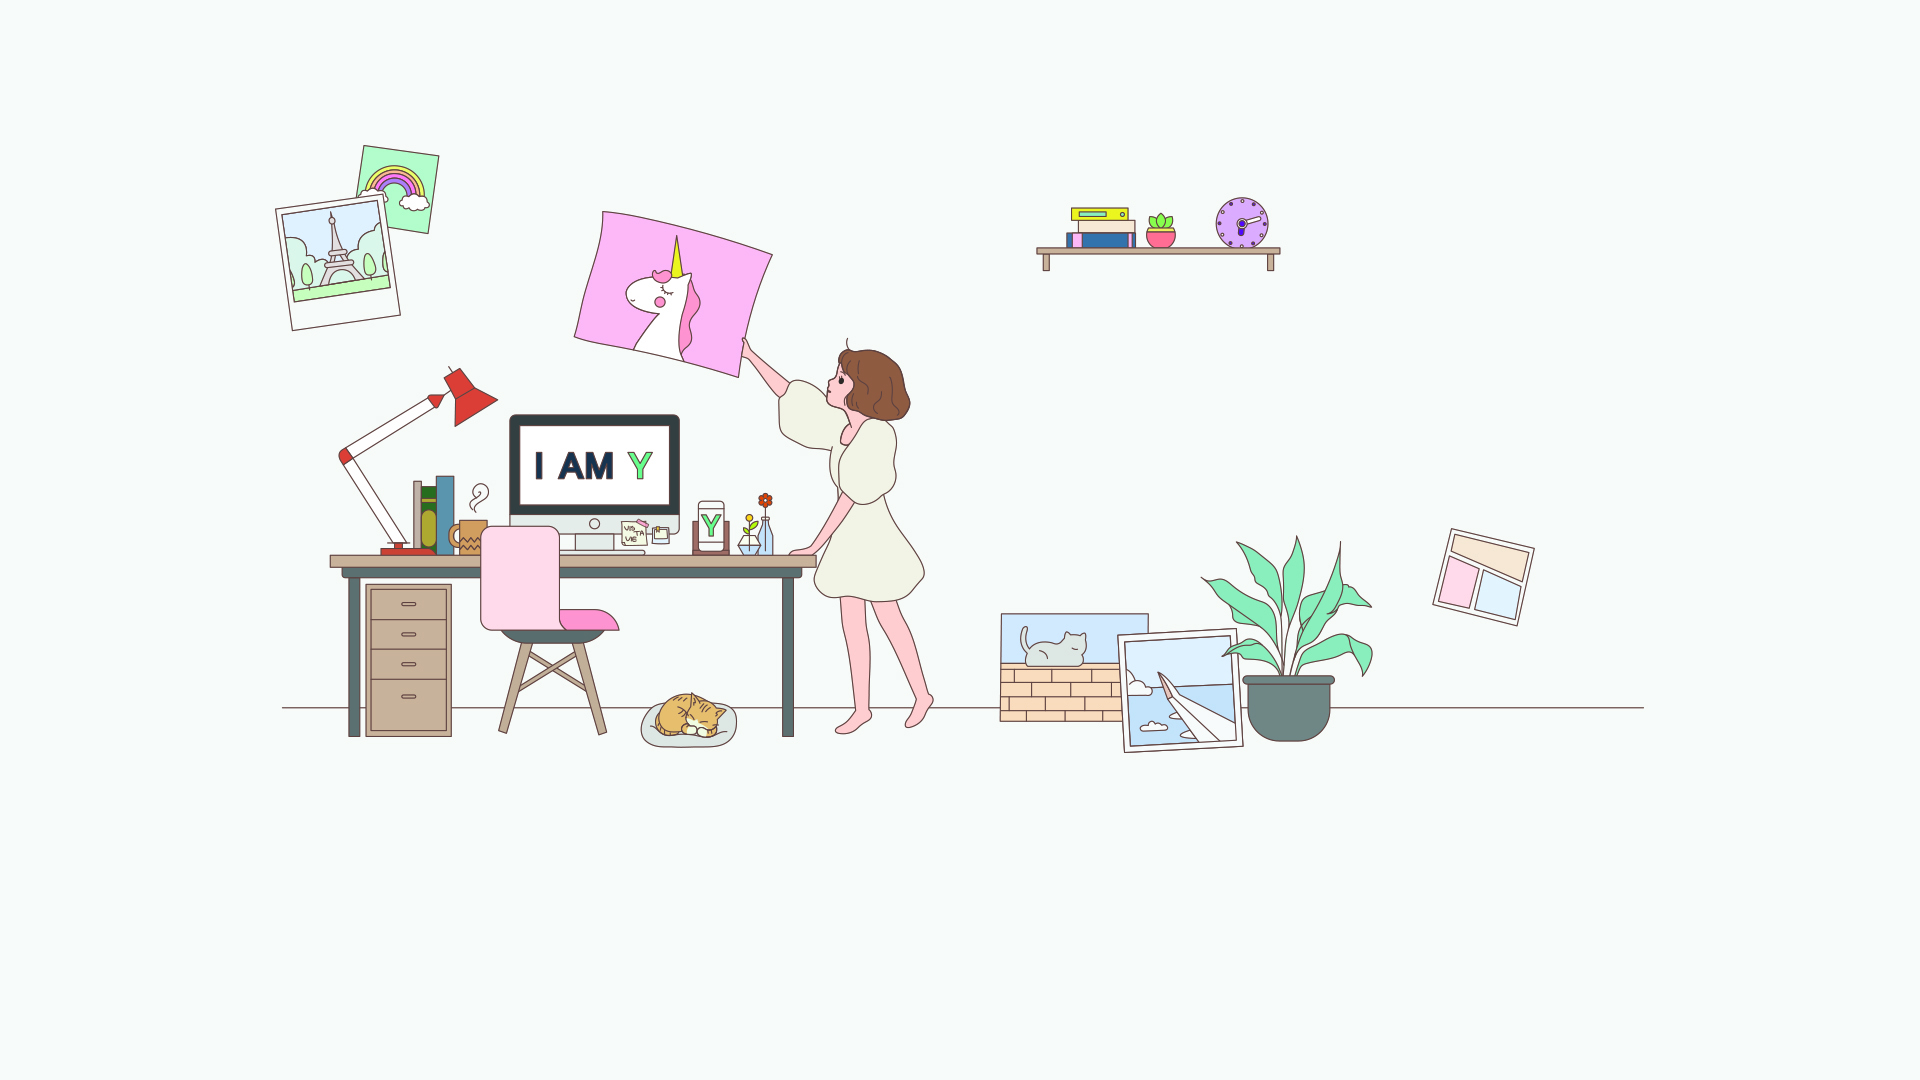
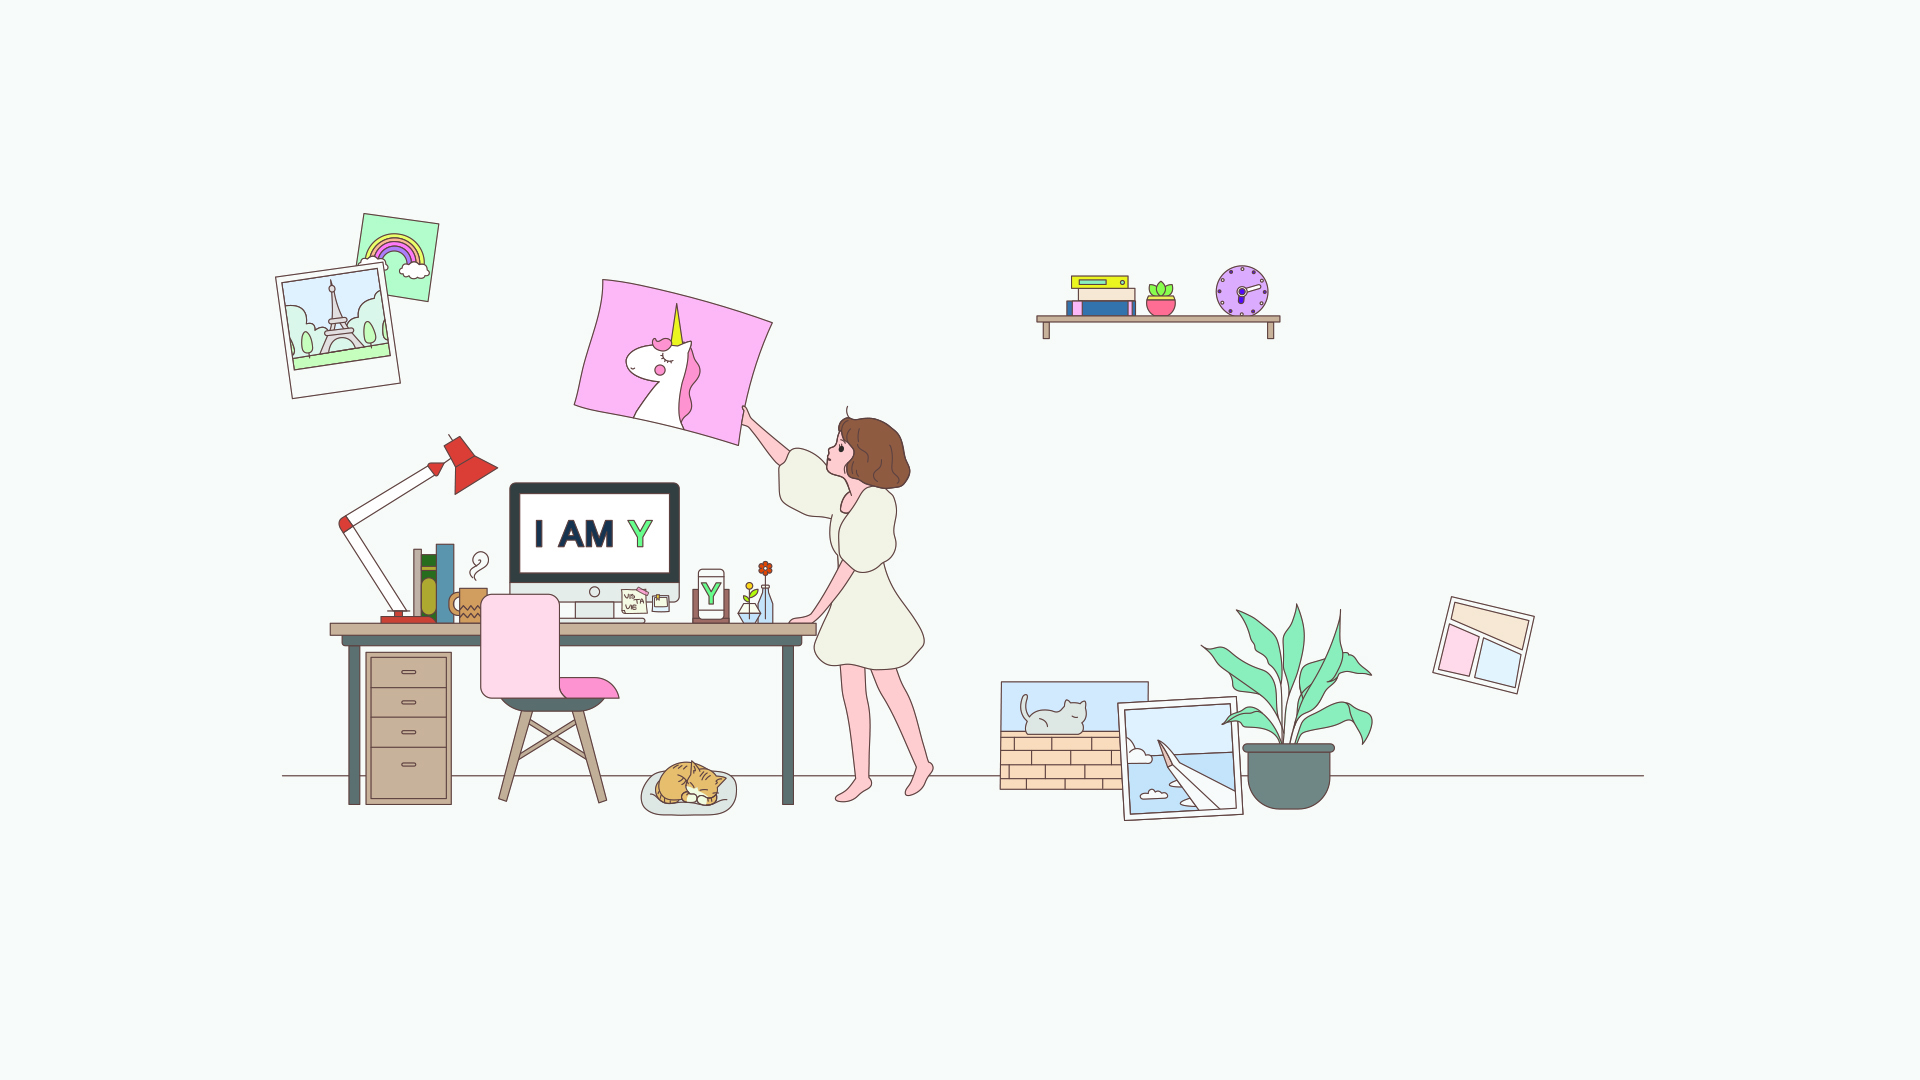
up

diff --git a/assets/css/style.css b/assets/css/style.css
@@ -373,7 +373,7 @@ ul.list-check li::before {
 .intro {
 	position: absolute;
 	width: 100%;
-	top: 45%;
+	top: 40%;
 	left: 20%;
 	text-align: center;
 	-webkit-transform: translate(0%, -50%);
